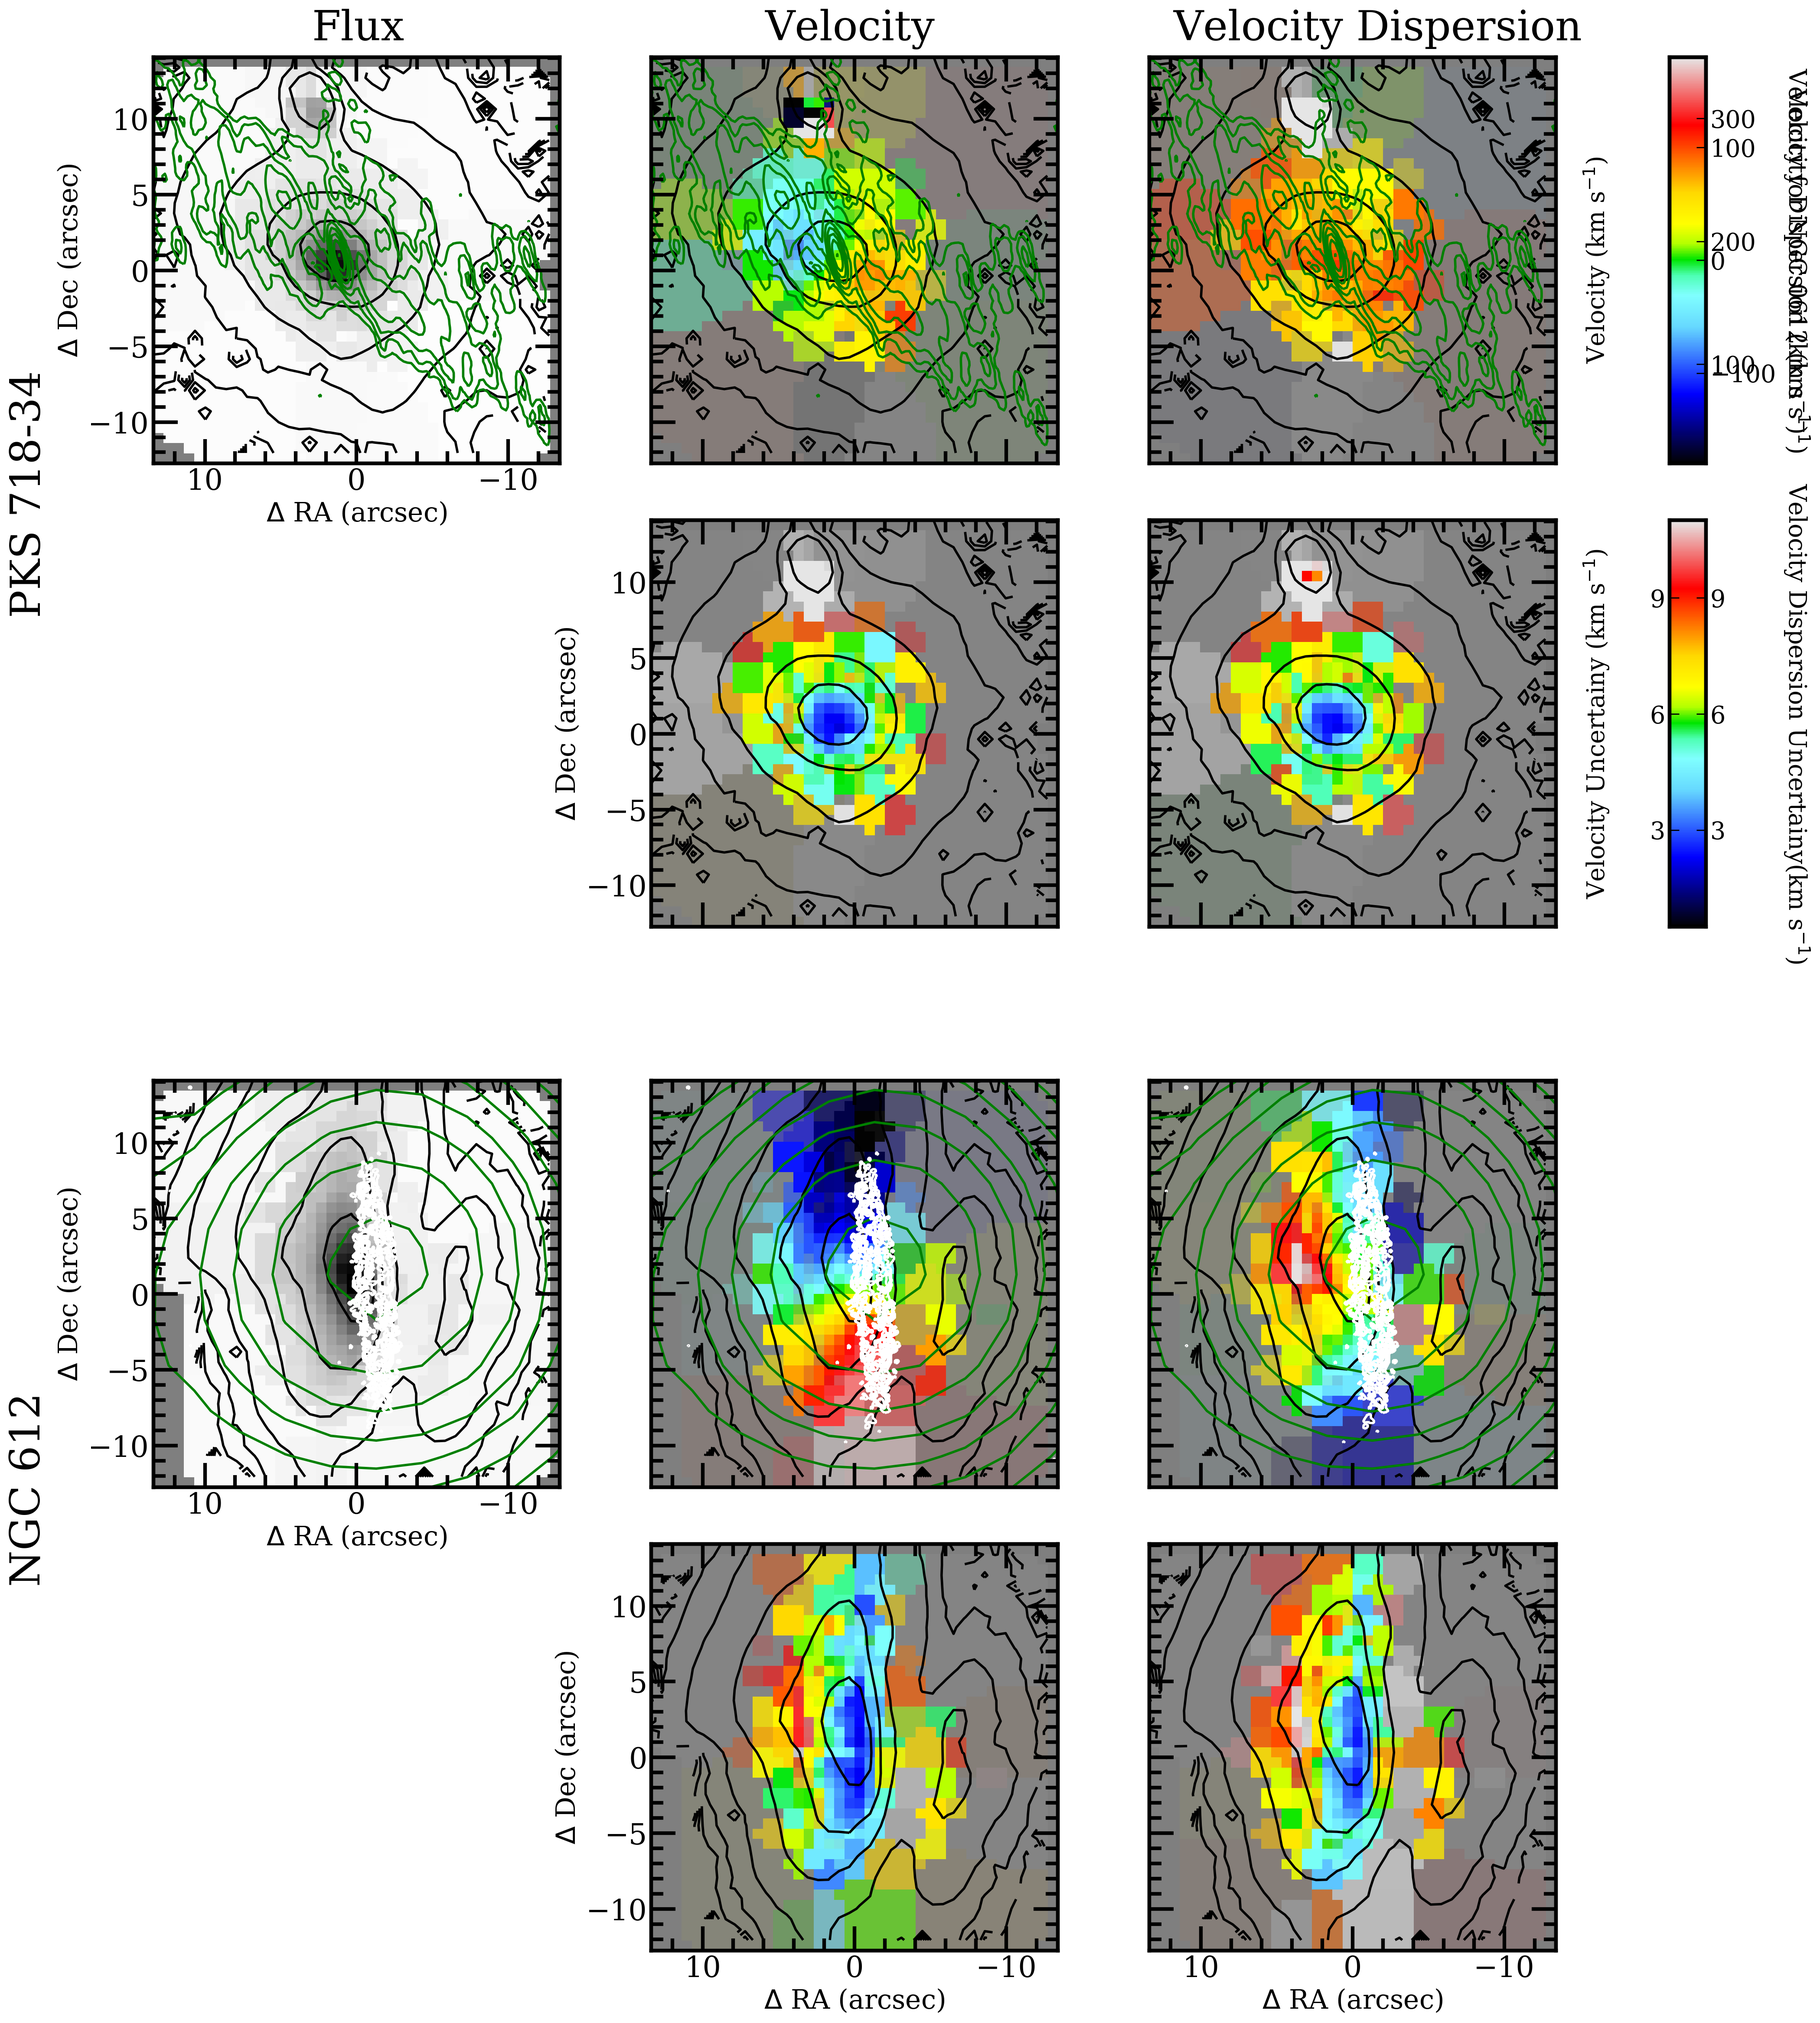
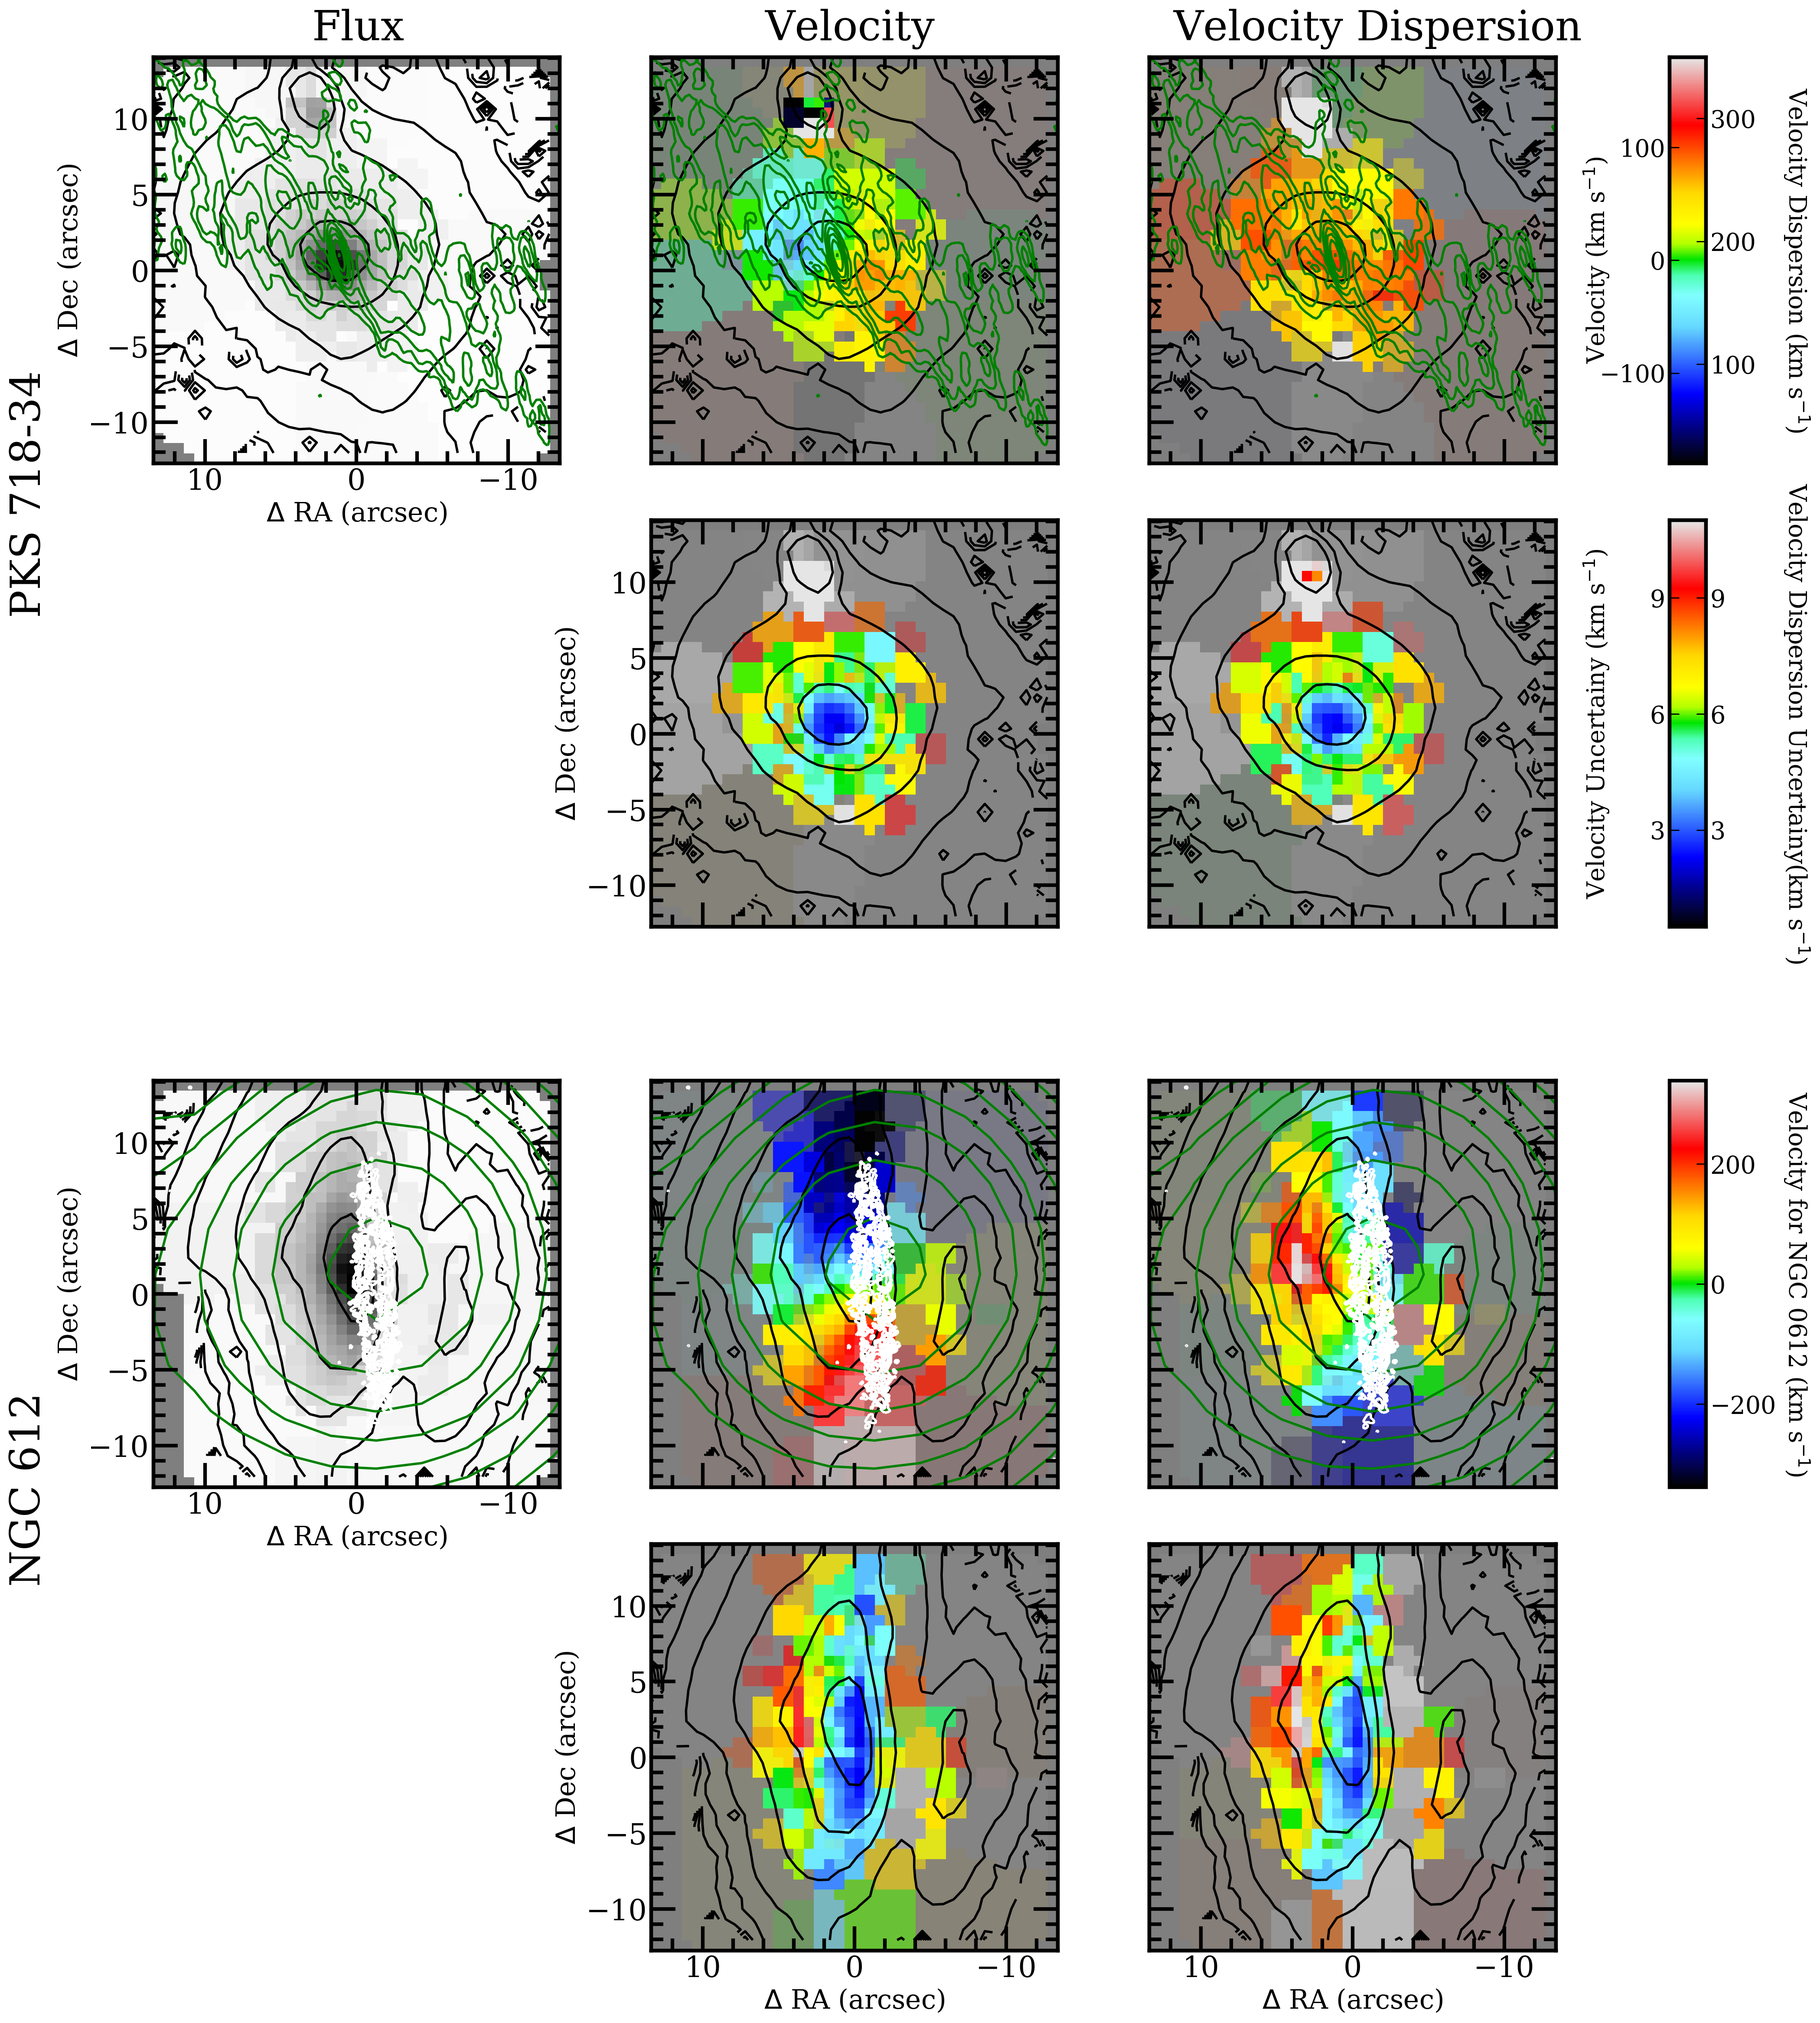
Minor corrections to some plots
On branch master
 Changes to be committed:
	modified:   chapter4/muse/abs2.png
	modified:   chapter4/muse/abs2b.png
	modified:   chapter4/muse/kin2.png
	modified:   chapter4/muse/pop2.png
	modified:   chapter4/produce_abs_plot.py
	modified:   chapter4/produce_plots.py
	modified:   chapter4/produce_pop_plot.py
	modified:   chapter4/vimos/kin4.png
	modified:   chapter5/muse/Hb.png
	modified:   chapter5/produce_Hb_muse.py

Changed region(s): [[0.905, 0.5282, 0.9986, 0.7457]]

diff --git a/chapter4/produce_plots.py b/chapter4/produce_plots.py
@@ -101,6 +101,7 @@ def plot(galaxies, str_galaxies, file_name, debug=False, instrument='vimos'):
 			from errors2_muse import get_dataCubeDirectory
 			f = fits.open(get_dataCubeDirectory(galaxy))
 			header = f[1].header
+			SN_target = 0
 		f.close()
 
 		plots = [
@@ -304,7 +305,7 @@ def plot(galaxies, str_galaxies, file_name, debug=False, instrument='vimos'):
 
 	# Add extra colorbar for NGC 0612
 	if 'ngc0612' in galaxies:
-		loc = np.where('ngc0612' in galaxies)[0][0]
+		loc = np.where(np.array(galaxies)=='ngc0612')[0][0]*2
 		ax_loc = axs[loc, 2].get_position()
 		ticks_sym = ticker.MaxNLocator(nbins=4, min_n_ticks=3)
 
@@ -325,19 +326,19 @@ def plot(galaxies, str_galaxies, file_name, debug=False, instrument='vimos'):
 
 
 if __name__=='__main__':
-	plot(['ic1459','ic4296','ngc1316'], ['IC 1459', 'IC 4296', 'NGC 1316'],
-		'kin1', instrument='muse')
+	# plot(['ic1459','ic4296','ngc1316'], ['IC 1459', 'IC 4296', 'NGC 1316'],
+	# 	'kin1', instrument='muse')
 
-	plot(['ngc1399'], ['NGC 1399'], 'kin2', instrument='muse')
+	# plot(['ngc1399'], ['NGC 1399'], 'kin2', instrument='muse')
 
-	plot(['eso443-g024', 'ic1459'], ['ESO 443-G24', 'IC 1459'], 'kin1', 
-		instrument='vimos')
+	# plot(['eso443-g024', 'ic1459'], ['ESO 443-G24', 'IC 1459'], 'kin1', 
+	# 	instrument='vimos')
 
-	plot(['ic1531', 'ic4296', 'ngc1399'], ['IC 1531', 'IC 4296', 'NGC 1399'],
-		'kin2', instrument='vimos')
+	# plot(['ic1531', 'ic4296', 'ngc1399'], ['IC 1531', 'IC 4296', 'NGC 1399'],
+	# 	'kin2', instrument='vimos')
 
-	plot(['ngc3100', 'ngc3557', 'ngc7075'], 
-		['NGC 3100', 'NGC 3557', 'NGC 7075'], 'kin3', instrument='vimos')
+	# plot(['ngc3100', 'ngc3557', 'ngc7075'], 
+	# 	['NGC 3100', 'NGC 3557', 'NGC 7075'], 'kin3', instrument='vimos')
 
 	plot(['pks0718-34', 'ngc0612'], ['PKS 718-34', 'NGC 612'], 'kin4', 
 		instrument='vimos')

diff --git a/chapter4/produce_abs_plot.py b/chapter4/produce_abs_plot.py
@@ -424,29 +424,29 @@ def plot(galaxies, str_galaxies, file_name, instrument='vimos',
 
 
 if __name__=='__main__':
-	plot(['ic1459', 'ic4296'], ['IC 1459', 'IC 4296'], 'abs1',
-		instrument='muse')
+	# plot(['ic1459', 'ic4296'], ['IC 1459', 'IC 4296'], 'abs1',
+	# 	instrument='muse')
 
 	plot(['ngc1316', 'ngc1399'], ['NGC 1316', 'NGC 1399'], 'abs2',
 		instrument='muse')
 
-	plot(['ic1459', 'ic4296'], ['IC 1459', 'IC 4296'], 'abs1b', 
-		instrument='muse2')
+	# plot(['ic1459', 'ic4296'], ['IC 1459', 'IC 4296'], 'abs1b', 
+	# 	instrument='muse2')
 
 	plot(['ngc1316', 'ngc1399'], ['NGC 1316', 'NGC 1399'], 'abs2b', 
 		instrument='muse2')
 
-	plot(['eso443-g024', 'ic1459'], ['ESO 443-G24', 'IC 1459'], 'abs1', 
-		instrument='vimos')
+	# plot(['eso443-g024', 'ic1459'], ['ESO 443-G24', 'IC 1459'], 'abs1', 
+	# 	instrument='vimos')
 
-	plot(['ic1531', 'ic4296'], ['IC 1531', 'IC 4296'], 'abs2', 
-		instrument='vimos')
+	# plot(['ic1531', 'ic4296'], ['IC 1531', 'IC 4296'], 'abs2', 
+	# 	instrument='vimos')
 
-	plot(['ngc0612', 'ngc1399'], ['NGC 612', 'NGC 1399'], 'abs3', 
-		instrument='vimos')
+	# plot(['ngc0612', 'ngc1399'], ['NGC 612', 'NGC 1399'], 'abs3', 
+	# 	instrument='vimos')
 
-	plot(['ngc3100', 'ngc3557'], ['NGC 3100', 'NGC 3557'], 'abs4', 
-		instrument='vimos')
+	# plot(['ngc3100', 'ngc3557'], ['NGC 3100', 'NGC 3557'], 'abs4', 
+	# 	instrument='vimos')
 
-	plot(['ngc7075', 'pks0718-34'], ['NGC7075', 'PKS 0718-34'], 'abs5', 
-		instrument='vimos')
+	# plot(['ngc7075', 'pks0718-34'], ['NGC7075', 'PKS 0718-34'], 'abs5', 
+	# 	instrument='vimos')

diff --git a/chapter4/produce_pop_plot.py b/chapter4/produce_pop_plot.py
@@ -242,19 +242,19 @@ def plot(galaxies, str_galaxies, file_name, instrument='vimos',
 	plt.close('all')
 
 if __name__=='__main__':
-	plot(['ic1459', 'ic4296', 'ngc1316'], 
-		['IC 1459', 'IC 4296', 'NGC 1316'], 'pop1', instrument='muse')
+	# plot(['ic1459', 'ic4296', 'ngc1316'], 
+	# 	['IC 1459', 'IC 4296', 'NGC 1316'], 'pop1', instrument='muse')
 
 	plot(['ngc1399'], ['NGC 1399'], 'pop2', instrument='muse')
 
-	plot(['eso443-g024', 'ic1459'], 
-		['ESO 443-G24', 'IC 1459'], 'pop1', instrument='vimos')
+	# plot(['eso443-g024', 'ic1459'], 
+	# 	['ESO 443-G24', 'IC 1459'], 'pop1', instrument='vimos')
 
-	plot(['ic1531', 'ic4296', 'ngc0612'], 
-		['IC 1531', 'IC 4296', 'NGC 612'], 'pop2', instrument='vimos')
+	# plot(['ic1531', 'ic4296', 'ngc0612'], 
+	# 	['IC 1531', 'IC 4296', 'NGC 612'], 'pop2', instrument='vimos')
 
-	plot(['ngc1399', 'ngc3100', 'ngc3557'], 
-		['NGC 1399', 'NGC 3100', 'NGC 3557'], 'pop3', instrument='vimos')
+	# plot(['ngc1399', 'ngc3100', 'ngc3557'], 
+	# 	['NGC 1399', 'NGC 3100', 'NGC 3557'], 'pop3', instrument='vimos')
 
-	plot(['ngc7075', 'pks0718-34'], 
-		['NGC 7075', 'PKS 0718-34'], 'pop4', instrument='vimos')
+	# plot(['ngc7075', 'pks0718-34'], 
+	# 	['NGC 7075', 'PKS 0718-34'], 'pop4', instrument='vimos')

diff --git a/chapter5/produce_Hb_muse.py b/chapter5/produce_Hb_muse.py
@@ -16,7 +16,7 @@ from sauron_colormap import sauron#2 as sauron
 from plot_results import set_lims
 
 
-def plot(galaxies):
+def plot(galaxies, str_galaxies):
 	opt = 'pop'
 	overplot={'CO':'w', 'radio':'r'}
 	Prefig(size=np.array((4, 1))*8)
@@ -89,7 +89,7 @@ def plot(galaxies):
 			signal_noise_target=4, ax=axs[i])#, galaxy=galaxy)
 
 		fig.text(axs[i].ax_dis.get_position().x0+0.02, 
-			axs[i].ax_dis.get_position().y1-0.1, galaxy.upper(), va='top', 
+			axs[i].ax_dis.get_position().y1-0.1, str_galaxies[i], va='top', 
 			color='w', zorder=15, size='medium')
 
 		if overplot:
@@ -130,4 +130,5 @@ def plot(galaxies):
 
 
 if __name__=='__main__':
-	plot(['ic1459', 'ic4296', 'ngc1316', 'ngc1399'])
+	plot(['ic1459', 'ic4296', 'ngc1316', 'ngc1399'],
+		['IC 1459', 'IC 4296', 'NGC 1316', 'NGC 1399'])
